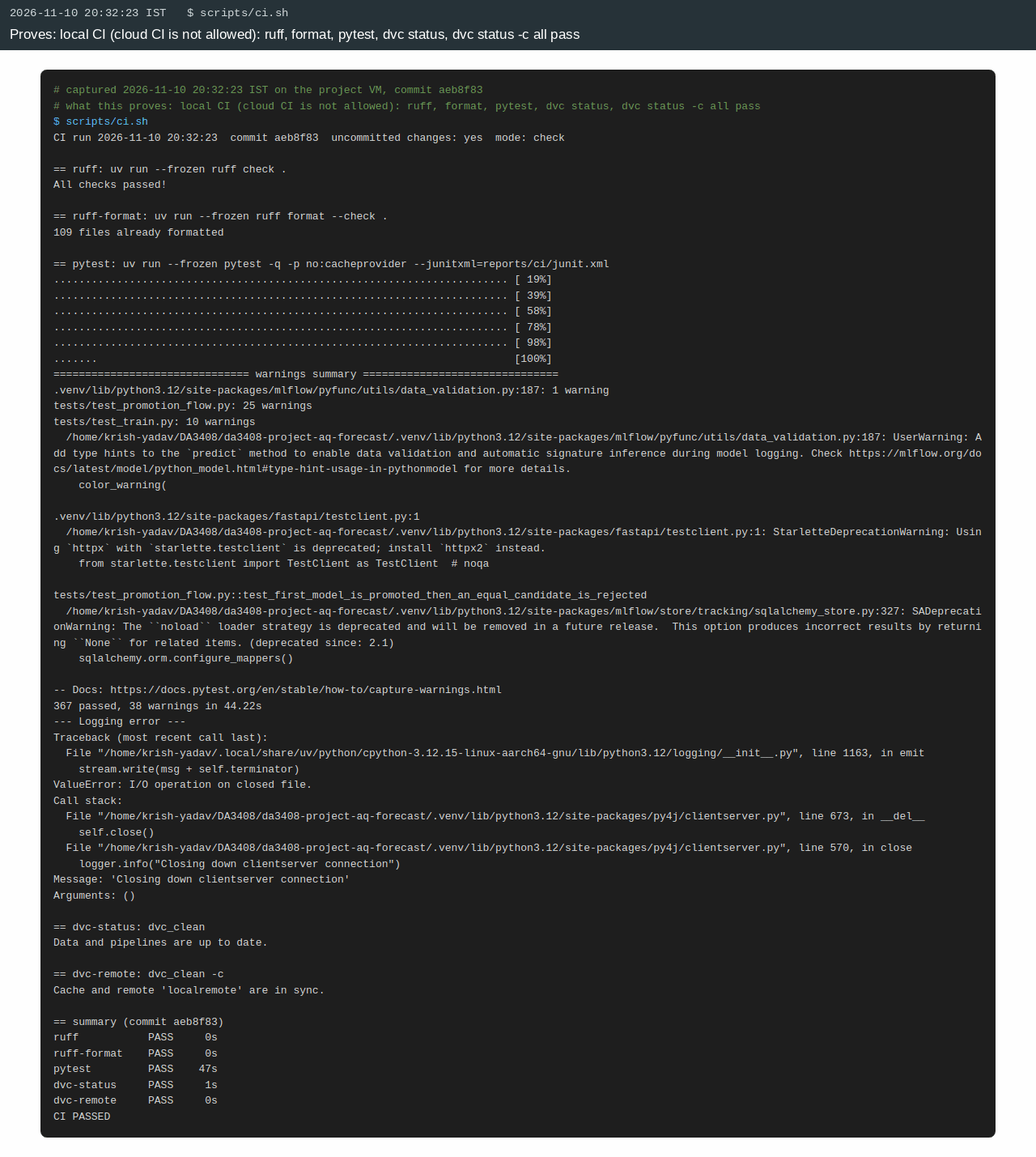
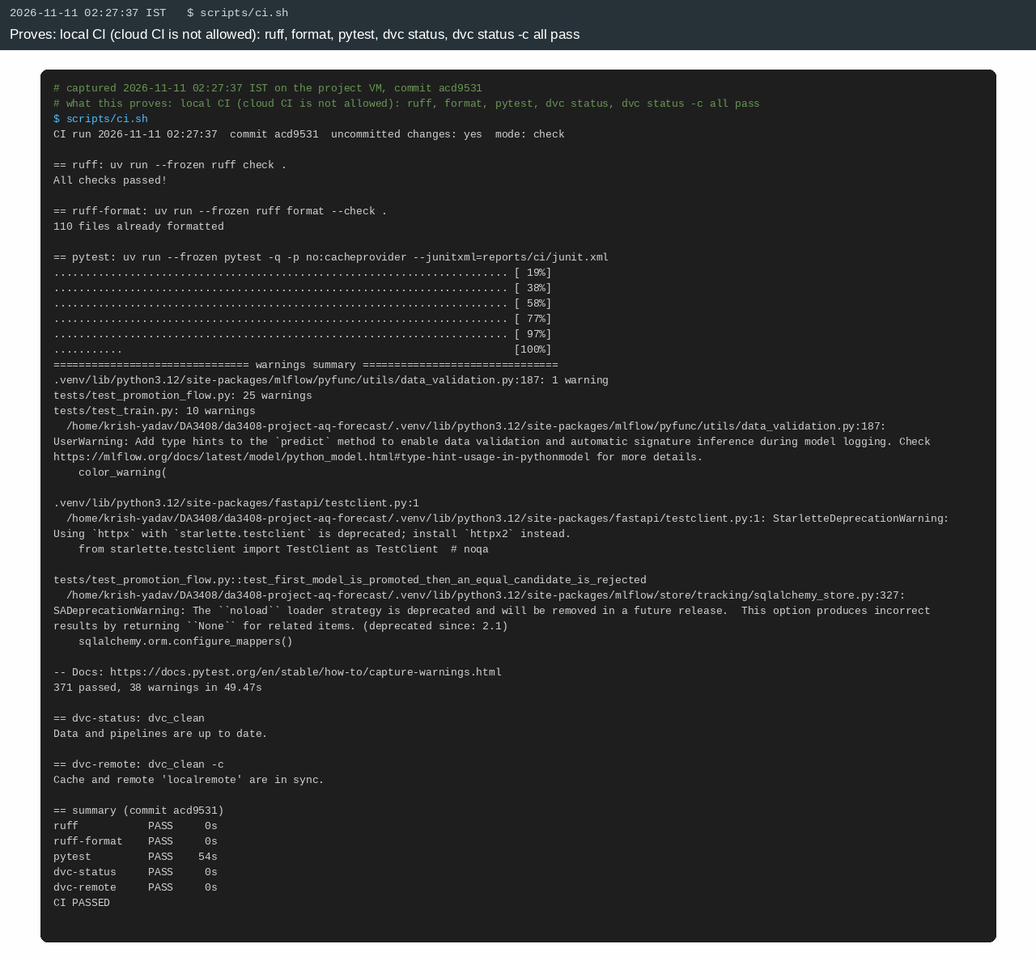
Console tables show "–", architecture diagram parses, evidence at 371 tests
- Every console table (stages, failed runs, all runs, model versions) goes
  through table_rows, so null failed_stage/rows_per_sec show "–" and a
  version's aliases show as text; 1 test (371 of 371).
- docs/architecture.md: the dotted arrow to Docker Hub had a "." in its
  inline label, which Mermaid's lexer rejects ("Syntax error in text");
  the label is now in pipe form.
- tests/conftest.py: drop py4j INFO logging after Spark stops, so the
  intermittent "I/O operation on closed file" trace no longer shows.
- Evidence 05_testing/03, 05_testing/05 and 07_source_control_ci/03
  retaken with the Pillow renderer from a fresh scripts/ci.sh run.

Changed region(s): [[0.0, 0.0, 1.0, 0.9966], [0.7812, 0.6852, 0.8125, 0.7163]]

diff --git a/src/frontend/console_page.py b/src/frontend/console_page.py
@@ -20,6 +20,7 @@ from src.frontend.helpers import (
     nice_time,
     ops_message,
     short_time,
+    table_rows,
 )
 
 LINKS = {
@@ -73,7 +74,7 @@ def _pipeline_section(client: BackendClient) -> None:
     if stages:
         st.caption(f"Last run: {stages.get('run_id') or 'none yet'}")
         st.graphviz_chart(dag_dot(stages["stages"]))
-        frame = pd.DataFrame(stages["stages"])[
+        frame = pd.DataFrame(table_rows(stages["stages"]))[
             ["name", "status", "duration_s", "rows_out", "rows_per_sec"]
         ]
         st.dataframe(frame, hide_index=True, width="stretch")
@@ -85,7 +86,8 @@ def _pipeline_section(client: BackendClient) -> None:
             # Errors first, in their own short table, so they are not lost in
             # the wide run table.
             st.markdown("**Failed runs**")
-            frame = pd.DataFrame([r for r in runs["runs"] if r["status"] == "failed"])
+            failed_runs = [r for r in runs["runs"] if r["status"] == "failed"]
+            frame = pd.DataFrame(table_rows(failed_runs))
             st.dataframe(
                 frame[["run_id", "started_at", "failed_stage", "error"]],
                 hide_index=True,
@@ -93,12 +95,13 @@ def _pipeline_section(client: BackendClient) -> None:
             )
         if runs["runs"]:
             st.markdown("**All runs**")
-            frame = pd.DataFrame(runs["runs"])
+            frame = pd.DataFrame(table_rows(runs["runs"]))
             st.dataframe(frame, hide_index=True, width="stretch")
     models = _public(client, "/pipeline/models")
     if models:
         st.markdown("**Model versions**")
-        st.dataframe(pd.DataFrame(models["models"]), hide_index=True, width="stretch")
+        frame = pd.DataFrame(table_rows(models["models"]))
+        st.dataframe(frame, hide_index=True, width="stretch")
 
 
 def _drift_section(client: BackendClient, key: str) -> bool:

diff --git a/tests/test_frontend.py b/tests/test_frontend.py
@@ -223,7 +223,9 @@ class FakeBackend:
         if path == "/pipeline/stages":
             return {"run_id": "r1", "stages": [
                 {"name": "ingest", "deps": [], "status": "success", "duration_s": 1.0,
-                 "rows_out": 10, "rows_per_sec": 10}]}  # fmt: skip
+                 "rows_out": 10, "rows_per_sec": 10},
+                {"name": "test", "deps": ["ingest"], "status": "success",
+                 "duration_s": 0.0, "rows_out": 1, "rows_per_sec": None}]}  # fmt: skip
         if path == "/pipeline/runs":
             return {"runs": [
                 {"run_id": "r2", "status": "success", "started_at": "t2",
@@ -372,6 +374,23 @@ def test_console_lists_failed_runs_with_their_error_and_a_short_replay_time():
         m.label == "Replay time" and m.value == "01 Apr, 00:00" for m in at.metric
     )
     assert any("01 Apr 2020, 00:00" in c.value for c in at.caption)
+
+
+def test_console_tables_show_a_dash_instead_of_none():
+    # Streamlit printed JSON nulls as "None" in the stage, run and model tables
+    # (the test stage has no rows/sec, a successful run no failed stage).
+    at = AppTest.from_function(console_app, args=(FakeBackend(),)).run()
+    assert not at.exception
+    tables = [t.value for t in at.dataframe]
+    assert len(tables) == 4  # stages, failed runs, all runs, model versions
+    for table in tables:
+        assert "None" not in table.to_string()
+    stages = next(t for t in tables if "rows_per_sec" in t.columns)
+    assert stages["rows_per_sec"].tolist() == ["10", "–"]
+    runs = next(t for t in tables if "run_id" in t.columns and len(t) == 2)
+    assert runs["failed_stage"].tolist() == ["–", "validate"]
+    models = next(t for t in tables if "aliases" in t.columns)
+    assert models["aliases"].tolist() == ["champion"]
 
 
 def test_console_status_boxes_are_two_per_row():

diff --git a/src/frontend/helpers.py b/src/frontend/helpers.py
@@ -131,12 +131,13 @@ def ops_message(label: str, path: str, result: dict) -> str:
     return f"{label}."
 
 
-def drift_rows(cities: list[dict]) -> list[dict]:
-    """Return the drift table rows as text, with "–" where a value is null.
+def table_rows(rows: list[dict]) -> list[dict]:
+    """Return table rows as text, with "–" where a value is null.
 
-    Streamlit printed JSON nulls as "None" (Kolkata has no threshold, and every
-    city has no PSI before 168 replayed hours). Turning every cell into text
-    also keeps each column one type, which Streamlit's table needs.
+    Streamlit printed JSON nulls as "None" (Kolkata has no threshold, a run
+    that did not fail has no failed stage, the test stage has no rows/sec).
+    Turning every cell into text also keeps each column one type, which
+    Streamlit's table needs. Every table in the console goes through this.
     """
 
     def cell(value) -> str:
@@ -144,6 +145,13 @@ def drift_rows(cities: list[dict]) -> list[dict]:
             return NO_VALUE
         if isinstance(value, bool):
             return "yes" if value else "no"
+        if isinstance(value, list | tuple):  # e.g. the aliases of a version
+            return ", ".join(str(v) for v in value) or NO_VALUE
         return str(value)
 
-    return [{key: cell(value) for key, value in row.items()} for row in cities]
+    return [{key: cell(value) for key, value in row.items()} for row in rows]
+
+
+def drift_rows(cities: list[dict]) -> list[dict]:
+    """Return the drift table rows as text (see ``table_rows``)."""
+    return table_rows(cities)

diff --git a/tests/conftest.py b/tests/conftest.py
@@ -1,5 +1,7 @@
 """Shared test fixtures."""
 
+import logging
+
 import numpy as np
 import pandas as pd
 import pytest
@@ -19,6 +21,14 @@ def spark():
     )
     yield session
     session.stop()
+    # py4j logs "Closing down clientserver connection" at INFO from __del__
+    # when Python exits. If that runs after pytest has closed the stderr the
+    # root handler writes to, logging prints "--- Logging error ---
+    # ValueError: I/O operation on closed file" (it depends on when the
+    # garbage collector runs, so only some runs show it, e.g.
+    # docs/evidence/07_source_control_ci/03_ci_run.txt of 2026-11-10).
+    # Nothing is lost by dropping py4j's INFO messages once Spark is stopped.
+    logging.getLogger("py4j").setLevel(logging.WARNING)
 
 
 def synthetic_features(tmp_path):

diff --git a/docs/evidence/README.md b/docs/evidence/README.md
@@ -2,7 +2,9 @@
 
 This folder holds screenshots and terminal captures for every line of the rubric and the guidelines (`docs/rubric.md`). I captured them on 2026-11-10 on the project VM, at commit `aeb8f83`, with the serve stack running. Each PNG has a dark strip on top with the time, the URL or command, and one line saying what it proves. A terminal capture is also kept as a `.txt` next to its PNG, with the exact command on its `$` line.
 
-The first capture run made 222 images. I kept the one or two clearest per rubric line and deleted the rest (other cities, every Swagger endpoint, single Grafana panels already visible on a full dashboard, retakes and terminal outputs that repeated another file), so this set has 79 images and 26 transcripts.
+The first capture run made 222 images. I kept the one or two clearest per rubric line and deleted the rest (other cities, every Swagger endpoint, single Grafana panels already visible on a full dashboard, retakes and terminal outputs that repeated another file), so this set has 79 images and 27 transcripts.
+
+**Retaken on 2026-11-11.** Three images showed an old test count, so I retook them on the host with the Pillow renderer (`python scripts/capture_evidence.py terminal-pil --only <path>`), at `acd9531` with the console table change in the workspace: `05_testing/03` (now a transcript of the report's summary section, not the rendered page), `05_testing/05` and `07_source_control_ci/03`. All three show 371 of 371.
 
 **How it was made.** `docs/evidence/` was captured automatically by `scripts/capture_evidence.py` (Playwright in Docker, image `mcr.microsoft.com/playwright/python:v1.49.1-noble`, arm64), written by Claude Code under my direction. `scripts/capture_evidence_host.sh` runs the terminal commands on the host and drives the live story. Run again, the scripts make the full uncurated set under the original file names. The 11 user-manual screenshots in `docs/screenshots/` were taken by me by hand. No browser was installed on the VM, and the Playwright image was removed afterwards.
 
@@ -14,14 +16,14 @@ The first capture run made 222 images. I kept the one or two clearest per rubric
 | 02_pipeline_viz | 6 | 0 |
 | 03_design | 9 | 1 |
 | 04_implementation | 5 | 2 |
-| 05_testing | 5 | 1 |
+| 05_testing | 5 | 2 |
 | 06_data_engineering | 5 | 2 |
 | 07_source_control_ci | 5 | 4 |
 | 08_experiment_tracking | 6 | 1 |
 | 09_monitoring | 7 | 2 |
 | 10_packaging | 7 | 4 |
 | 11_guidelines | 17 | 9 |
-| **Total** | **79** | **26** |
+| **Total** | **79** | **27** |
 
 ## The live story (11_guidelines/05 to 12)
 
@@ -62,7 +64,7 @@ Paths are relative to this folder.
 | Design document | [03_design/02_hld.png](03_design/02_hld.png) | `docs/HLD.md` rendered: design choices with reasons |
 | OO or functional paradigm stated | [03_design/02_hld.png](03_design/02_hld.png) (section 3, "Programming paradigm") | Functional pipeline stages, object-oriented services |
 | LLD with API endpoints and I/O specs | [03_design/04_lld.png](03_design/04_lld.png) | `docs/LLD.md` rendered: every endpoint, its input, output, status codes and the error body |
-| Architecture diagram | [03_design/01_architecture.png](03_design/01_architecture.png) | `docs/architecture.md` with the Mermaid diagram drawn and one paragraph per block |
+| Architecture diagram | [03_design/01_architecture.png](03_design/01_architecture.png) | `docs/architecture.md` with one paragraph per block. The diagram in this capture is Mermaid's "Syntax error in text": see "What I could not capture" |
 | HLD diagram | [03_design/03_hld_diagram.png](03_design/03_hld_diagram.png) | The lifecycle diagram |
 | Loose coupling via configurable REST | [03_design/09_frontend_never_imports_backend.png](03_design/09_frontend_never_imports_backend.png), [01_ui/06_backend_down_message.png](01_ui/06_backend_down_message.png) | No frontend module imports backend code, the URL comes from `BACKEND_URL`, and the same image ran against another URL |
 | API endpoints as designed | [03_design/05_fastapi_docs.png](03_design/05_fastapi_docs.png), [03_design/06_endpoint_get_forecast.png](03_design/06_endpoint_get_forecast.png), [03_design/07_endpoint_post_ops_rollback.png](03_design/07_endpoint_post_ops_rollback.png), [03_design/08_lld_vs_openapi.png](03_design/08_lld_vs_openapi.png) | Swagger UI, two key endpoints expanded, and the LLD's 14 endpoints next to the live `/openapi.json`: all match |
@@ -77,7 +79,7 @@ Paths are relative to this folder.
 | Inline comments and docstrings | [04_implementation/05_backend_app.png](04_implementation/05_backend_app.png), [04_implementation/03_backend_errors.png](04_implementation/03_backend_errors.png) | Docstrings on every function, comments where a choice needs a reason |
 | Design document adhered to / APIs follow the spec | [03_design/08_lld_vs_openapi.png](03_design/08_lld_vs_openapi.png) | Every LLD endpoint is live and every live endpoint is in the LLD |
 | API-key check | [04_implementation/05_backend_app.png](04_implementation/05_backend_app.png) | `require_key`: Bearer token, `hmac.compare_digest`, 401 otherwise |
-| Unit tests implemented | [05_testing/05_pytest_full.png](05_testing/05_pytest_full.png) | The whole suite passes |
+| Unit tests implemented | [05_testing/05_pytest_full.png](05_testing/05_pytest_full.png) | The whole suite passes: 371 passed (2026-11-11) |
 
 ### Software Engineering: Testing [1]
 
@@ -85,7 +87,7 @@ Paths are relative to this folder.
 |---|---|---|
 | Test plan | [05_testing/01_test_plan.png](05_testing/01_test_plan.png) | `docs/test_plan.md`: scope, levels, environment, how to run, acceptance criteria |
 | List of test cases | [05_testing/02_test_case_list.png](05_testing/02_test_case_list.png) | TC-01 to TC-49 and E2E-01 to E2E-23 |
-| Test report with passed and failed counts | [05_testing/03_test_report_summary.png](05_testing/03_test_report_summary.png), [05_testing/05_pytest_full.png](05_testing/05_pytest_full.png) | Cases run, passed and failed: 367 of 367 when captured; after the D-6 fix and one more capture-script test later that day the suite has 370, all passing (`docs/test_report.md`) |
+| Test report with passed and failed counts | [05_testing/03_test_report_summary.png](05_testing/03_test_report_summary.png), [05_testing/05_pytest_full.png](05_testing/05_pytest_full.png) | Cases run, passed and failed: 371 run, 371 passed, 0 failed (the summary section of `docs/test_report.md` and the pytest run, both 2026-11-11) |
 | Acceptance criteria defined and met | [05_testing/01_test_plan.png](05_testing/01_test_plan.png) (section 5), [05_testing/04_acceptance_criteria_met.png](05_testing/04_acceptance_criteria_met.png) | AC-1 to AC-7 defined in the plan, each met in the report |
 
 ### AIOps: Data Engineering [2]
@@ -100,7 +102,7 @@ Paths are relative to this folder.
 
 | Rubric line | Evidence | Caption |
 |---|---|---|
-| CI implemented using DVC | [07_source_control_ci/03_ci_run.png](07_source_control_ci/03_ci_run.png) | A full passing `scripts/ci.sh` run: ruff, format, pytest, `dvc status`, `dvc status -c` |
+| CI implemented using DVC | [07_source_control_ci/03_ci_run.png](07_source_control_ci/03_ci_run.png) | A full passing `scripts/ci.sh` run on 2026-11-11: ruff, format, pytest (371 passed), `dvc status`, `dvc status -c` |
 | DVC DAG representing the CI pipeline | [07_source_control_ci/01_dvc_dag.png](07_source_control_ci/01_dvc_dag.png), [07_source_control_ci/02_dvc_yaml.png](07_source_control_ci/02_dvc_yaml.png) | `dvc dag` and `dvc.yaml`: the 7 stages with deps, params and outputs |
 | Git and DVC for source, data and model versioning | [07_source_control_ci/04_git_log.png](07_source_control_ci/04_git_log.png), [07_source_control_ci/05_data_versioned_by_dvc.png](07_source_control_ci/05_data_versioned_by_dvc.png) | Git history; the data only as a `.dvc` pointer; data and model hashes in `dvc.lock` |
 
@@ -157,6 +159,8 @@ Paths are relative to this folder.
 | No cloud platforms | [11_guidelines/16_no_cloud.png](11_guidelines/16_no_cloud.png) | No cloud service is used. The one cloud SDK in `uv.lock`, `databricks-sdk`, is a dependency of MLflow itself, and my code never imports it; the DVC remote and the MLflow store are local folders. (The first capture said "no cloud SDK", which was wrong; I retook it on the host with the Pillow renderer.) |
 
 ## What I could not capture, and why
+
+- **The architecture diagram.** `03_design/01_architecture` shows "Syntax error in text" where the diagram should be. The error was real: the last arrow was dotted with its label written inside the arrow (`serve -. images, scripts/build_multiarch.sh .-> hub`), and Mermaid's lexer does not accept a `.` in that kind of label, so it stopped at `.sh`. The HLD diagram has no dotted labels, which is why it rendered. I moved the label into the pipe form (`serve -.->|images, scripts/build_multiarch.sh| hub`). No browser is installed on the VM and I could not download one, so the drawn diagram still has to be retaken by hand.
 
 - **The browser padlock.** Headless Chromium screenshots show only the page, not the address bar. The TLS proof is the terminal capture `11_guidelines/13_tls_certificate` (subject, issuer, protocol and `Verify return code: 0` against my CA). My hand-taken `docs/screenshots/01_start.png` shows the browser side.
 - **The Docker Hub website.** hub.docker.com answers a headless browser with a Cloudflare "verify you are human" page, so I did not take those screenshots. Docker Hub's own API (`11_guidelines/17_dockerhub_api`) shows the same tags and platforms.

diff --git a/docs/test_report.md b/docs/test_report.md
@@ -1,13 +1,13 @@
 # Test Report
 
-I ran the whole suite and every acceptance check again on 2026-10-21, against the live serve stack, with the plan in `docs/test_plan.md`. The rollback drill found two real defects in the compose set-up. I fixed both and ran everything again. After the final audit (`docs/final_audit.md`) I added 9 tests and the checks E2E-18 to E2E-22, and on 2026-11-03 I ran the suite again (350 of 350). On 2026-11-05 I added 3 frontend tests for the forecast page's replay-clock note (353 of 353), then 5 tests for the rollback fix (D-2) and 1 for the console layout (D-5) (359 of 359). Last, I added 3 tests for the console's ops messages and drift table, which now show plain sentences and "–" instead of the raw response and "None", and ran the suite once more. On 2026-11-10 I added `scripts/capture_evidence.py`, which takes the screenshots in `docs/evidence/`, and 5 tests for its helpers (TC-49), and ran `scripts/ci.sh` again: 367 of 367. The same day I fixed D-6, a gauge that kept its value after a replay reset, with 2 more tests, and added a Pillow renderer to the capture script with 1 test: 370 of 370. The pytest numbers below come from that last run; the other sections say when each check was run. I retook screenshots 10 and 11 on the new console on 2026-11-06. The drift table shows "–" and yes/no with no "None" cells, and 11 shows the rollback result as the sentence "Rolled back from version 4 to version 1." After taking 11 I rolled back again, so v4 is champion and v1 previous, and no retrain request was left in `ops/requests/`.
+I ran the whole suite and every acceptance check again on 2026-10-21, against the live serve stack, with the plan in `docs/test_plan.md`. The rollback drill found two real defects in the compose set-up. I fixed both and ran everything again. After the final audit (`docs/final_audit.md`) I added 9 tests and the checks E2E-18 to E2E-22, and on 2026-11-03 I ran the suite again (350 of 350). On 2026-11-05 I added 3 frontend tests for the forecast page's replay-clock note (353 of 353), then 5 tests for the rollback fix (D-2) and 1 for the console layout (D-5) (359 of 359). Last, I added 3 tests for the console's ops messages and drift table, which now show plain sentences and "–" instead of the raw response and "None", and ran the suite once more. On 2026-11-10 I added `scripts/capture_evidence.py`, which takes the screenshots in `docs/evidence/`, and 5 tests for its helpers (TC-49), and ran `scripts/ci.sh` again: 367 of 367. The same day I fixed D-6, a gauge that kept its value after a replay reset, with 2 more tests, and added a Pillow renderer to the capture script with 1 test: 370 of 370. Last, the console's stage, run and model tables showed "None" for empty cells; they now use the same "–" helper as the drift table, with 1 test, and the test session no longer prints py4j's "Logging error" at exit: 371 of 371. The pytest numbers below come from that last run; the other sections say when each check was run. I retook screenshots 10 and 11 on the new console on 2026-11-06. The drift table shows "–" and yes/no with no "None" cells, and 11 shows the rollback result as the sentence "Rolled back from version 4 to version 1." After taking 11 I rolled back again, so v4 is champion and v1 previous, and no retrain request was left in `ops/requests/`.
 
 ## 1. Summary
 
 | | Count |
 |---|---:|
-| pytest test cases run | **370** |
-| Passed | **370** |
+| pytest test cases run | **371** |
+| Passed | **371** |
 | Failed | **0** |
 | Errors | 0 |
 | Skipped | 0 |
@@ -15,7 +15,7 @@ I ran the whole suite and every acceptance check again on 2026-10-21, against th
 | Acceptance criteria (AC-1 to AC-7) | **7 of 7 met** |
 | Defects found | 6, all fixed (section 5) |
 
-The pytest numbers are from `reports/ci/junit.xml` (`tests="370" failures="0" errors="0" skipped="0"`, 2026-11-10), at commit `cc39d92` with the D-6 fix in the workspace. The run before it, 362 of 362 at `5092d56`, is in `reports/ci/final/junit.xml`. The full CI output is in `reports/ci/final/last_run.log`. Earlier runs (350 of 350 at `e10bbaf`, 353 of 353 at `76de3f9`, 358 of 358 at `6e29d9e`, 359 of 359 at `1341240`) are in git history under the same path. The Stage 17 run (341 of 341 at `2c452c3`) is kept in `reports/ci/stage17/`, and the Stage 16 run with `--repro` (every stage executed) in `reports/ci/stage16/repro_run.log`. The warnings are deprecation and hint messages from MLflow, SQLAlchemy and Starlette, not from my code.
+The pytest numbers are from `reports/ci/junit.xml` (`tests="371" failures="0" errors="0" skipped="0"`, 2026-11-11), at commit `acd9531` with the console table change in the workspace. The run before it, 362 of 362 at `5092d56`, is in `reports/ci/final/junit.xml`. The full CI output is in `reports/ci/final/last_run.log`. Earlier runs (350 of 350 at `e10bbaf`, 353 of 353 at `76de3f9`, 358 of 358 at `6e29d9e`, 359 of 359 at `1341240`) are in git history under the same path. The Stage 17 run (341 of 341 at `2c452c3`) is kept in `reports/ci/stage17/`, and the Stage 16 run with `--repro` (every stage executed) in `reports/ci/stage16/repro_run.log`. The warnings are deprecation and hint messages from MLflow, SQLAlchemy and Starlette, not from my code.
 
 ```
 == summary (commit 5092d56)
@@ -56,12 +56,12 @@ Each row lists the test cases from the plan that the file covers. The counts inc
 | `test_backend_drift.py` | TC-37 | 11 | 11 | 0 |
 | `test_replay_script.py` | TC-38 | 5 | 5 | 0 |
 | `test_ops_runner.py` | TC-39 | 22 | 22 | 0 |
-| `test_frontend.py` | TC-40 to TC-44 | 28 | 28 | 0 |
+| `test_frontend.py` | TC-40 to TC-44 | 29 | 29 | 0 |
 | `test_monitoring.py`, `test_push_stage_metrics.py` | TC-45 | 9 | 9 | 0 |
 | `test_security.py` | TC-46, TC-47 | 11 | 11 | 0 |
 | `test_ci.py` | TC-48 | 6 | 6 | 0 |
 | `test_capture_evidence.py` | TC-49 | 6 | 6 | 0 |
-| **Total** | 49 cases | **370** | **370** | **0** |
+| **Total** | 49 cases | **371** | **371** | **0** |
 
 The slowest single tests are the Spark ones (`test_missing_by_city_year` 5.0 s, `test_validate_all_passes_on_good_data` 2.7 s, `test_validate_all_fails_on_impossible_value` 2.3 s). The suite took 50.2 s inside the 54 s pytest step.
 
@@ -181,7 +181,7 @@ The two LightGBM files are identical byte for byte. So a model can be rebuilt fr
 
 ### AC-7: clean code and a passing suite: **met**
 
-`scripts/ci.sh` (2026-11-05, at `5092d56` plus the console message change): ruff and format pass, 362 of 362 tests pass, `dvc status` says "Data and pipelines are up to date", and `dvc status -c` says "Cache and remote 'localremote' are in sync". I ran it again on 2026-11-10 at `aeb8f83` with the evidence script added: all five checks pass, 367 of 367 tests (`docs/evidence/07_source_control_ci/03_ci_run.txt`), and after the D-6 fix 370 of 370.
+`scripts/ci.sh` (2026-11-05, at `5092d56` plus the console message change): ruff and format pass, 362 of 362 tests pass, `dvc status` says "Data and pipelines are up to date", and `dvc status -c` says "Cache and remote 'localremote' are in sync". I ran it again on 2026-11-10 at `aeb8f83` with the evidence script added: all five checks pass, 367 of 367 tests, and on 2026-11-11 at `acd9531` plus the console table change: all five checks pass, 371 of 371 tests (`docs/evidence/07_source_control_ci/03_ci_run.txt`).
 
 ## 5. Defects found in this run
 

diff --git a/docs/test_plan.md b/docs/test_plan.md
@@ -129,7 +129,7 @@ Entry criterion for a test run: the code is committed or the diff is known, and 
 | TC-40 | Backend client | U | `test_frontend.py`: `test_client_*` (5) | reads `BACKEND_URL` and `BACKEND_CA_FILE`; sends the key only when given; maps error bodies to codes; counts and times calls |
 | TC-41 | Display helpers | U | `test_frontend.py`: `test_text_color_*`, `test_nice_time_*`, `test_card_html_*`, `test_dag_dot_*`, `test_count_runs`, `test_ops_message_*` (2), `test_drift_rows_*` | readable text colour on every AQI colour; advice is HTML-escaped; DAG nodes coloured by status; each ops answer becomes one plain sentence, and an unexpected answer shows only the label, never the raw response; null drift values show as "–" and flags as yes/no |
 | TC-42 | Forecast page | I | `test_frontend.py`: `test_forecast_page_*` (7) | cards for the chosen city; the 2020 demo note; "Demo clock is paused" when the replay is stopped and "Replay running" when it runs (from `GET /health`), and no note but still the cards when `/health` fails; a friendly sentence when the backend or the model is down |
-| TC-43 | Pipeline console | I | `test_frontend.py`: `test_console_*` (4) | no ops buttons until a key the backend accepts; a wrong key shows an error and no buttons; with a key, drift shows (no "None" in its table), retrain posts and a rollback answer reads "Rolled back from version 4 to version 1."; failed runs are listed with stage and error; the replay time fits its status box, and the four status boxes are two per row (half-width columns) |
+| TC-43 | Pipeline console | I | `test_frontend.py`: `test_console_*` (5) | no ops buttons until a key the backend accepts; no table shows "None" (an empty cell is "–", a list of aliases is plain text); a wrong key shows an error and no buttons; with a key, drift shows (no "None" in its table), retrain posts and a rollback answer reads "Rolled back from version 4 to version 1."; failed runs are listed with stage and error; the replay time fits its status box, and the four status boxes are two per row (half-width columns) |
 | TC-44 | App shell | I | `test_frontend.py`: `test_app_serves_*`, `test_modules_import`, `test_main_starts_exporter_*`, `test_streamlit_config_*` | `/forecast` and `/console` exist; the exporter starts before Streamlit; the developer toolbar is hidden |
 | TC-45 | Monitoring configuration | U | `test_monitoring.py` (all), `test_push_stage_metrics.py` (all) | every component scraped every 15 s; alert rules match the LLD; dashboards refresh every 15 s and show every LLD metric; every container has `mem_limit`; retention 2 days; the Pushgateway persists into the folder its user owns |
 | TC-46 | TLS | I | `test_security.py`: `test_make_certs_*`, `test_private_keys_*`, `test_client_*` (2), `test_backend_serves_https_*`, `test_backend_falls_back_*`, `test_browser_traffic_*`, `test_backend_and_its_clients_use_https` | the server certificate verifies against the CA; keys are `600`; without the CA the user sees a plain message, not an SSL trace |

diff --git a/docs/rubric_checklist.md b/docs/rubric_checklist.md
@@ -82,7 +82,7 @@ Index digests and platforms from `docker buildx imagetools inspect <image>:0.1.0
 | Design document strictly adhered to | The LLD is checked by tests: routes (`test_lld_lists_the_backend_routes`), feature columns (`test_features_match_lld_table_in_order`), metrics (`test_metrics_endpoint_lists_lld_metrics`, `test_every_lld_metric_is_on_a_dashboard`), alert rules (`test_alert_rules_match_lld`), model signature (`test_model_signature_matches_the_lld_columns`). When the design changed (drift rule, Stage 11), HLD, LLD and PLAN changed in the same commit |
 | Inline code comments | Docstrings on every module and function (enforced by ruff `D` rules); comments where a choice needs explaining, e.g. `docker-compose.yml`, `src/frontend/app.py` |
 | APIs follow the design doc interface spec | Same tests as above; `docs/test_report.md` TC-27 to TC-35 |
-| Unit tests implemented | 370 pytest cases in 31 files, one per module (`tests/`), 370 passed, 0 failed (`reports/ci/junit.xml`, 2026-11-10) |
+| Unit tests implemented | 371 pytest cases in 31 files, one per module (`tests/`), 371 passed, 0 failed (`reports/ci/junit.xml`, 2026-11-11) |
 
 ### Testing [1]
 
@@ -90,7 +90,7 @@ Index digests and platforms from `docker buildx imagetools inspect <image>:0.1.0
 |-------------|-------|
 | Test plan | `docs/test_plan.md` (scope, levels, environment, how to run) |
 | List of test cases | `docs/test_plan.md` section 6: TC-01 to TC-49 (pytest) and E2E-01 to E2E-23 |
-| Test report with passed and failed counts | `docs/test_report.md`: 370 run, 370 passed, 0 failed, per file; JUnit XML `reports/ci/junit.xml` |
+| Test report with passed and failed counts | `docs/test_report.md`: 371 run, 371 passed, 0 failed, per file; JUnit XML `reports/ci/junit.xml` |
 | Acceptance criteria defined and met | `docs/test_plan.md` section 5 (AC-1 to AC-7); `docs/test_report.md` section 4, all 7 met with evidence |
 
 ## AIOps Implementation [10]

diff --git a/README.md b/README.md
@@ -61,7 +61,7 @@ Open **https://localhost**. The browser warns about the certificate the first ti
 Other commands I use:
 
 ```
-scripts/ci.sh                         # lint, 370 tests, dvc status, dvc status -c (about 1 min)
+scripts/ci.sh                         # lint, 371 tests, dvc status, dvc status -c (about 1 min)
 docker compose --profile serve stop
 scripts/ci.sh --repro                 # + the full DVC pipeline and dvc push (about 2.5 min)
 python -m scripts.replay              # drift acceptance test over 2016-2020
@@ -92,7 +92,7 @@ v1 was trained up to 24 March 2020. v4 is the model the system trained by itself
 
 **Drift and retraining.** Replaying 25 March to 30 June of every year, the drift rule fires for 661 of 2,185 hours in 2020 and for 0 hours in 2016-2019. In the live loop it took 2 min 47 s from "drift is true" to the new model answering forecasts: the alert, the webhook, the retrain request, `dvc repro` with the new cutoff, the gate, the registry and the hot swap. The new model beat the old one on the lockdown window (mean MAE 6.467 against 6.750).
 
-**Tests.** 370 pytest cases, 370 passed, 0 failed. `docs/test_report.md` checks the seven acceptance criteria one by one, and all seven are met.
+**Tests.** 371 pytest cases, 371 passed, 0 failed. `docs/test_report.md` checks the seven acceptance criteria one by one, and all seven are met.
 
 ## Reproduce a result
 

diff --git a/docs/final_audit.md b/docs/final_audit.md
@@ -4,7 +4,7 @@ I ran this audit on 2026-10-27 at commit `1cdba84`. I did not rely on `docs/PROG
 
 I fixed section (a) and re-audited on 2026-11-03; the results are in the next two sections.
 
-Test counts in this file are the counts on the day of each check: 341 on 2026-10-27, 350 on 2026-11-03. The current count is 370 passed, 0 failed (2026-11-10: 6 tests for the evidence capture helpers and 2 for the D-6 gauge fix; 362 on 2026-11-05: 3 frontend tests for the replay-clock note, 5 for the rollback fix, 1 for the console layout and 3 for the console's ops messages and drift table). `docs/test_report.md` has the per-file numbers.
+Test counts in this file are the counts on the day of each check: 341 on 2026-10-27, 350 on 2026-11-03. The current count is 371 passed, 0 failed (2026-11-10: 6 tests for the evidence capture helpers, 2 for the D-6 gauge fix and 1 for the console tables; 362 on 2026-11-05: 3 frontend tests for the replay-clock note, 5 for the rollback fix, 1 for the console layout and 3 for the console's ops messages and drift table). `docs/test_report.md` has the per-file numbers.
 
 PASS means the evidence is there and works. WEAK means it exists but has a gap a grader could point at. FAIL means it is missing or broken.
 

diff --git a/docs/architecture.md b/docs/architecture.md
@@ -51,7 +51,7 @@ flowchart LR
     am -->|webhook /ops/alerts, HTTPS| be
     graf -->|queries| prom
     batchc -. same pipeline .-> pipe
-    serve -. images, scripts/build_multiarch.sh .-> hub
+    serve -.->|images, scripts/build_multiarch.sh| hub
 ```
 
 ## The blocks
